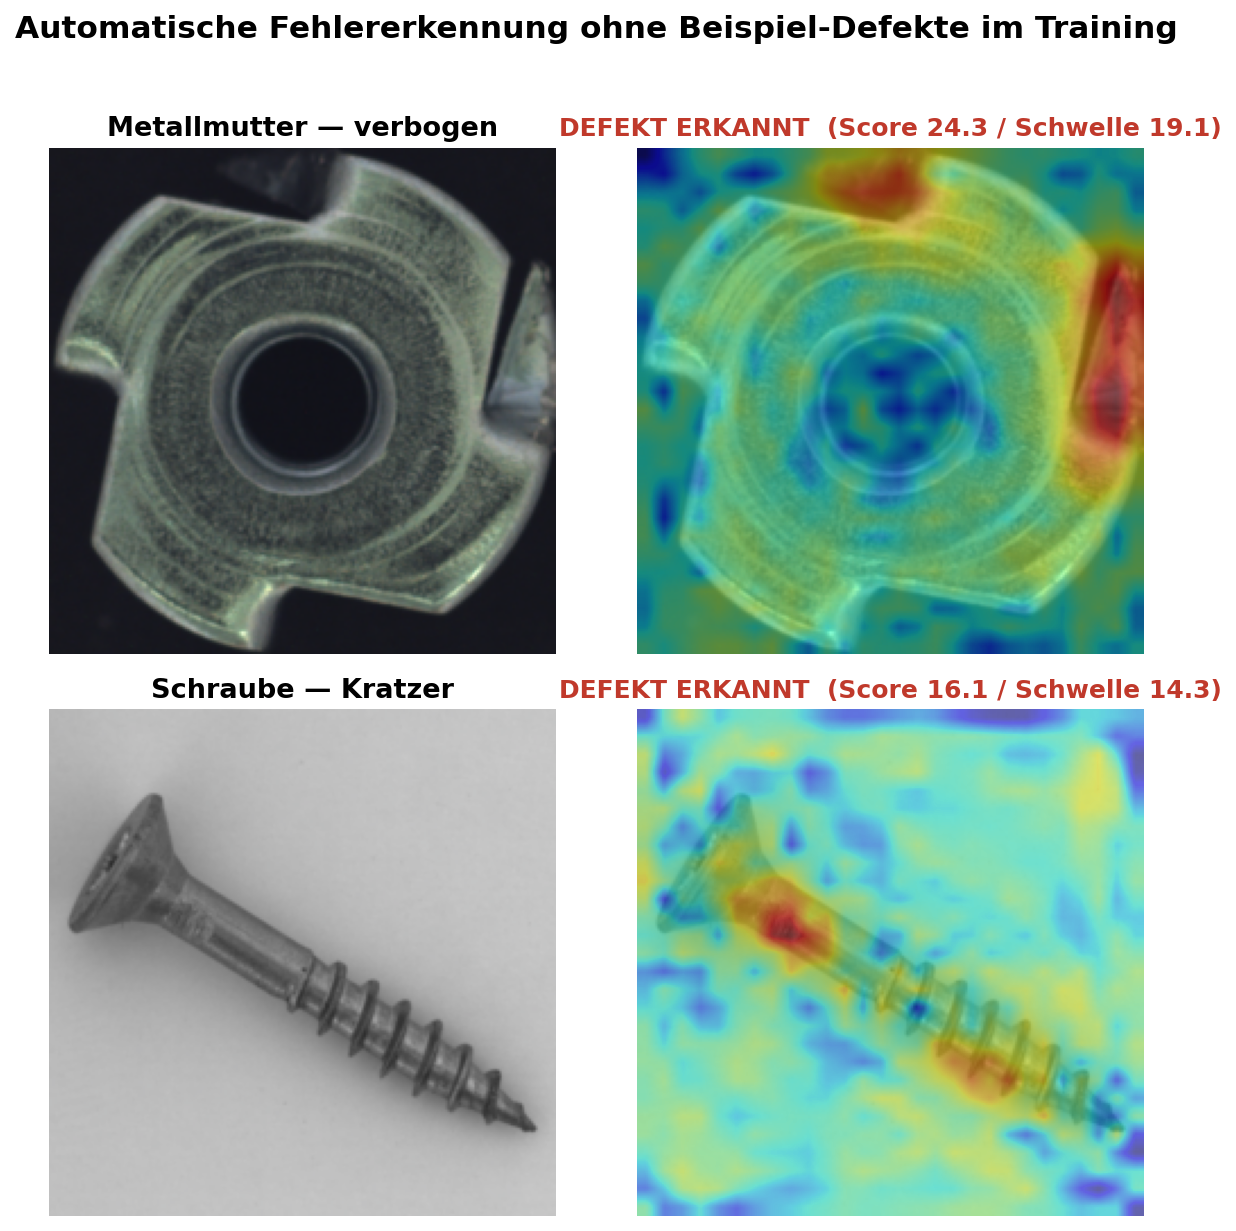
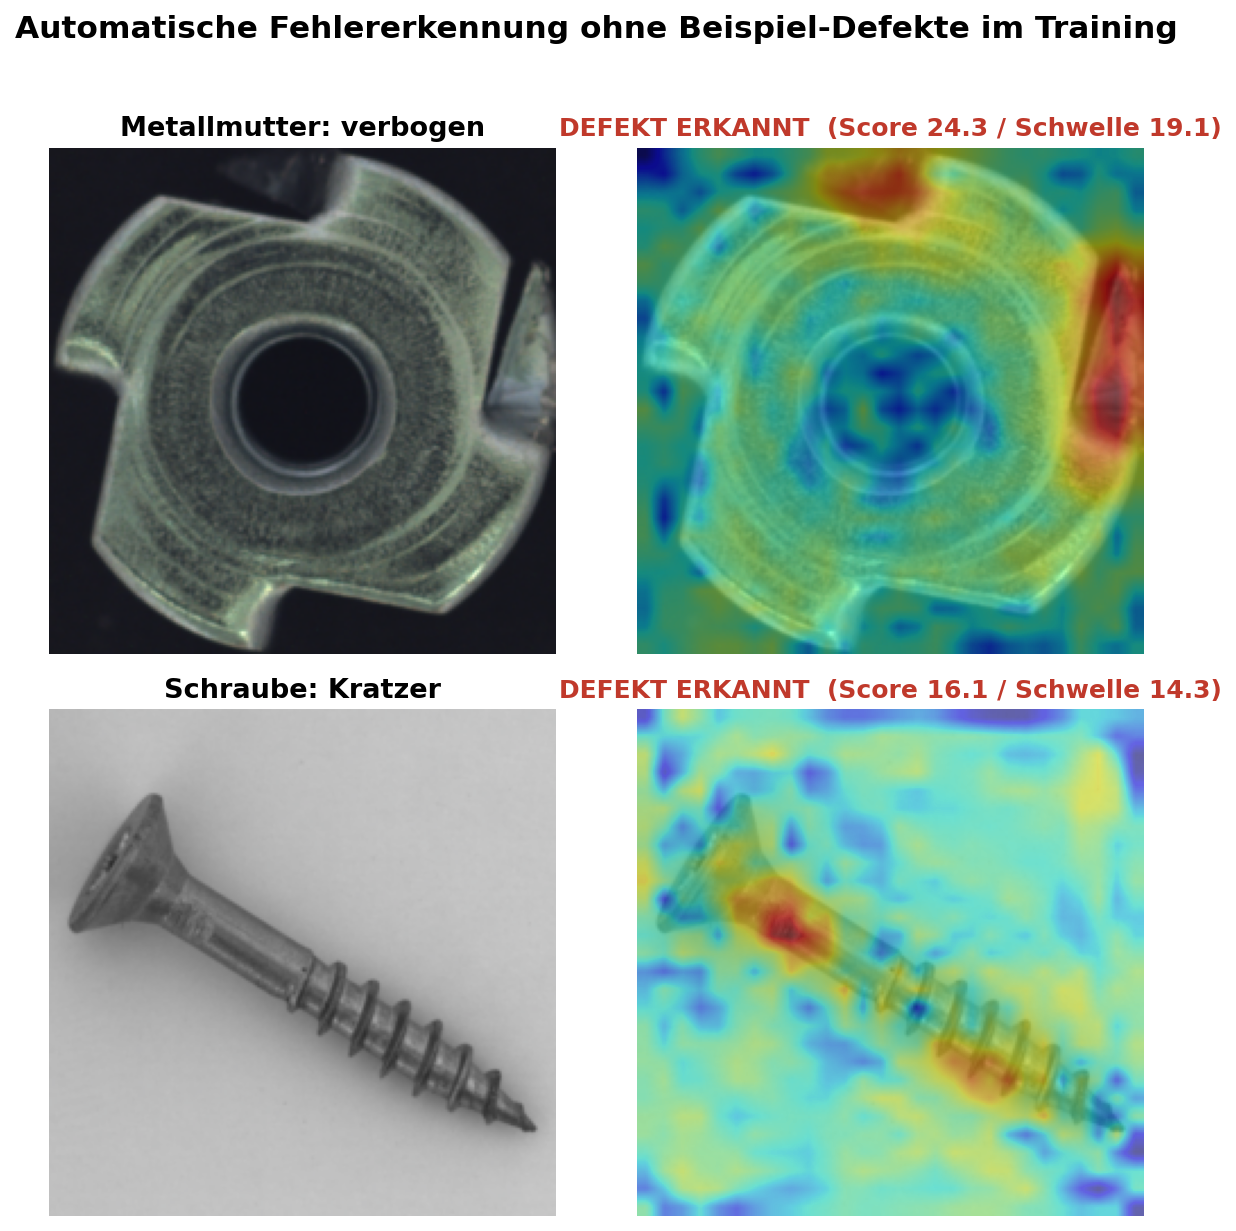
Remove em-dashes from landing page and hero image labels

Changed region(s): [[0.0922, 0.0926, 0.3997, 0.1235], [0.123, 0.5556, 0.3689, 0.5865]]

diff --git a/docs/index.html b/docs/index.html
@@ -224,11 +224,11 @@
   <div class="wrap">
     <header class="hero">
       <span class="eyebrow">Computer-Vision-Projekt</span>
-      <h1>Defekte an Metallbauteilen automatisch erkennen — ohne ein einziges defektes Trainingsbild</h1>
+      <h1>Defekte an Metallbauteilen automatisch erkennen, ohne ein einziges defektes Trainingsbild</h1>
       <p class="subtitle">
         Ein KI-System, das lernt, wie ein fehlerfreies Bauteil aussieht, und
         jede Abweichung davon selbstständig als Anomalie markiert. Getestet
-        an Metallmuttern und Schrauben — Bauteiltypen, wie sie in der
+        an Metallmuttern und Schrauben: Bauteiltypen, wie sie in der
         Präzisionsfertigung millionenfach verbaut werden.
       </p>
     </header>
@@ -258,7 +258,7 @@
         <div class="step">
           <div class="num">1</div>
           <h3>Nur "gute" Bauteile zeigen</h3>
-          <p>Das System bekommt ausschließlich Fotos von einwandfreien Bauteilen zu sehen — Fehlerbilder sind in der Praxis selten und teuer zu sammeln, hier braucht es keine.</p>
+          <p>Das System bekommt ausschließlich Fotos von einwandfreien Bauteilen zu sehen. Fehlerbilder sind in der Praxis selten und teuer zu sammeln, hier braucht es keine.</p>
         </div>
         <div class="step">
           <div class="num">2</div>
@@ -274,11 +274,11 @@
 
       <div class="verdict-example">
         <span class="badge bad">DEFEKT ERKANNT</span>
-        <span>Verbogene Metallmutter — Score deutlich über dem gelernten Normalbereich</span>
+        <span>Verbogene Metallmutter: Score deutlich über dem gelernten Normalbereich</span>
       </div>
       <div class="verdict-example">
         <span class="badge ok">OK</span>
-        <span>Fehlerfreie Schraube — Score im gelernten Normalbereich, kein Alarm</span>
+        <span>Fehlerfreie Schraube: Score im gelernten Normalbereich, kein Alarm</span>
       </div>
     </section>
 
@@ -286,7 +286,7 @@
       <h2>Warum das relevant ist</h2>
       <p class="lead">
         Klassische Qualitätsprüfung mit KI braucht meist große Mengen an
-        gelabelten Fehlerbildern — die in der Produktion oft schlicht nicht
+        gelabelten Fehlerbildern, die in der Produktion oft schlicht nicht
         in ausreichender Zahl vorliegen, weil gute Fertigung selten Ausschuss
         produziert. Der hier verwendete Ansatz (PatchCore, veröffentlicht
         2022) umgeht das: Er lernt ausschließlich aus Gutteilen und
@@ -301,18 +301,18 @@
       <p class="lead">
         Bewusst als Vorbereitung auf die Ausschreibung
         „Praktikum Digitalisierung für Machine Learning" bei MTU Maintenance
-        Berlin-Brandenburg umgesetzt — jeder zentrale Punkt aus dem
+        Berlin-Brandenburg umgesetzt. Jeder zentrale Punkt aus dem
         Anforderungsprofil taucht im Projekt konkret auf, nicht nur als
         Buzzword:
       </p>
       <div class="match-grid">
         <div class="match-card">
           <div class="req">„Entwicklung, Implementierung und Optimierung von Machine-Learning-Modellen auf PoC-Level"</div>
-          <div class="impl"><span class="check">✓</span><span>PatchCore komplett selbst implementiert (Feature-Extraktion, Memory Bank, Scoring) statt Fertig-Library — inklusive gezielter Optimierung der Hyperparameter.</span></div>
+          <div class="impl"><span class="check">✓</span><span>PatchCore komplett selbst implementiert (Feature-Extraktion, Memory Bank, Scoring) statt Fertig-Library, inklusive gezielter Optimierung der Hyperparameter.</span></div>
         </div>
         <div class="match-card">
           <div class="req">„Skalierung von ML-Modellen für produktive Systeme unter Beachtung von Performance und Sicherheit"</div>
-          <div class="impl"><span class="check">✓</span><span>Coreset-Subsampling reduziert die Vektor-Datenbank um über 99 % bei kaum messbarem Genauigkeitsverlust — Tradeoff bewusst gewählt, gemessen und dokumentiert.</span></div>
+          <div class="impl"><span class="check">✓</span><span>Coreset-Subsampling reduziert die Vektor-Datenbank um über 99 % bei kaum messbarem Genauigkeitsverlust. Tradeoff bewusst gewählt, gemessen und dokumentiert.</span></div>
         </div>
         <div class="match-card">
           <div class="req">„Aufbau, Testing und Verwaltung von Datenpipelines für Trainings- und Produktionssysteme"</div>
@@ -320,7 +320,7 @@
         </div>
         <div class="match-card">
           <div class="req">„Datenqualitätssicherung sowie Feature Engineering"</div>
-          <div class="impl"><span class="check">✓</span><span>Multi-Layer-Feature-Fusion, lokal gemittelte Patch-Features, korrekte Normalisierung — jeder Schritt bewusst begründet, nicht Standardwerte übernommen.</span></div>
+          <div class="impl"><span class="check">✓</span><span>Multi-Layer-Feature-Fusion, lokal gemittelte Patch-Features, korrekte Normalisierung. Jeder Schritt bewusst begründet, nicht Standardwerte übernommen.</span></div>
         </div>
         <div class="match-card">
           <div class="req">„Recherche, Evaluierung und Auswahl geeigneter Machine-Learning-Algorithmen"</div>
@@ -328,7 +328,7 @@
         </div>
         <div class="match-card">
           <div class="req">„Erste Erfahrung in der Entwicklung von APIs und der Integration von ML-Modellen in produktive Umgebungen"</div>
-          <div class="impl"><span class="check">✓</span><span>REST-API mit FastAPI, containerisiert mit Docker — ein Foto hochladen, Ergebnis in unter einer Sekunde.</span></div>
+          <div class="impl"><span class="check">✓</span><span>REST-API mit FastAPI, containerisiert mit Docker. Ein Foto hochladen, Ergebnis in unter einer Sekunde.</span></div>
         </div>
         <div class="match-card">
           <div class="req">„Erfahrung ... vorzugsweise in Computer Vision Projekten", „Erfahrung mit PyTorch und Scikit-learn"</div>
@@ -343,7 +343,7 @@
 
     <section>
       <h2>Umsetzung</h2>
-      <p class="lead">Nicht nur ein Notebook — ein lauffähiger Service:</p>
+      <p class="lead">Nicht nur ein Notebook, ein lauffähiger Service:</p>
       <div class="stack">
         <span class="pill">Python</span>
         <span class="pill">PyTorch</span>
@@ -362,7 +362,7 @@
       <a class="button" href="https://github.com/vaisiyanthavaseelan/anomaly-detection-patchcore">Code auf GitHub ansehen →</a>
     </div>
 
-    <footer>anomaly-detection-patchcore — Portfolio-Projekt</footer>
+    <footer>anomaly-detection-patchcore, Portfolio-Projekt</footer>
   </div>
 </body>
 </html>

diff --git a/scripts/build_hero.py b/scripts/build_hero.py
@@ -20,8 +20,8 @@ from src.patchcore import PatchCore
 from src.visualize import denormalize
 
 EXAMPLES = [
-    {"category": "metal_nut", "defect_type": "bent", "index_in_type": 0, "label_de": "Metallmutter — verbogen"},
-    {"category": "screw", "defect_type": "scratch_neck", "index_in_type": 0, "label_de": "Schraube — Kratzer"},
+    {"category": "metal_nut", "defect_type": "bent", "index_in_type": 0, "label_de": "Metallmutter: verbogen"},
+    {"category": "screw", "defect_type": "scratch_neck", "index_in_type": 0, "label_de": "Schraube: Kratzer"},
 ]
 
 
